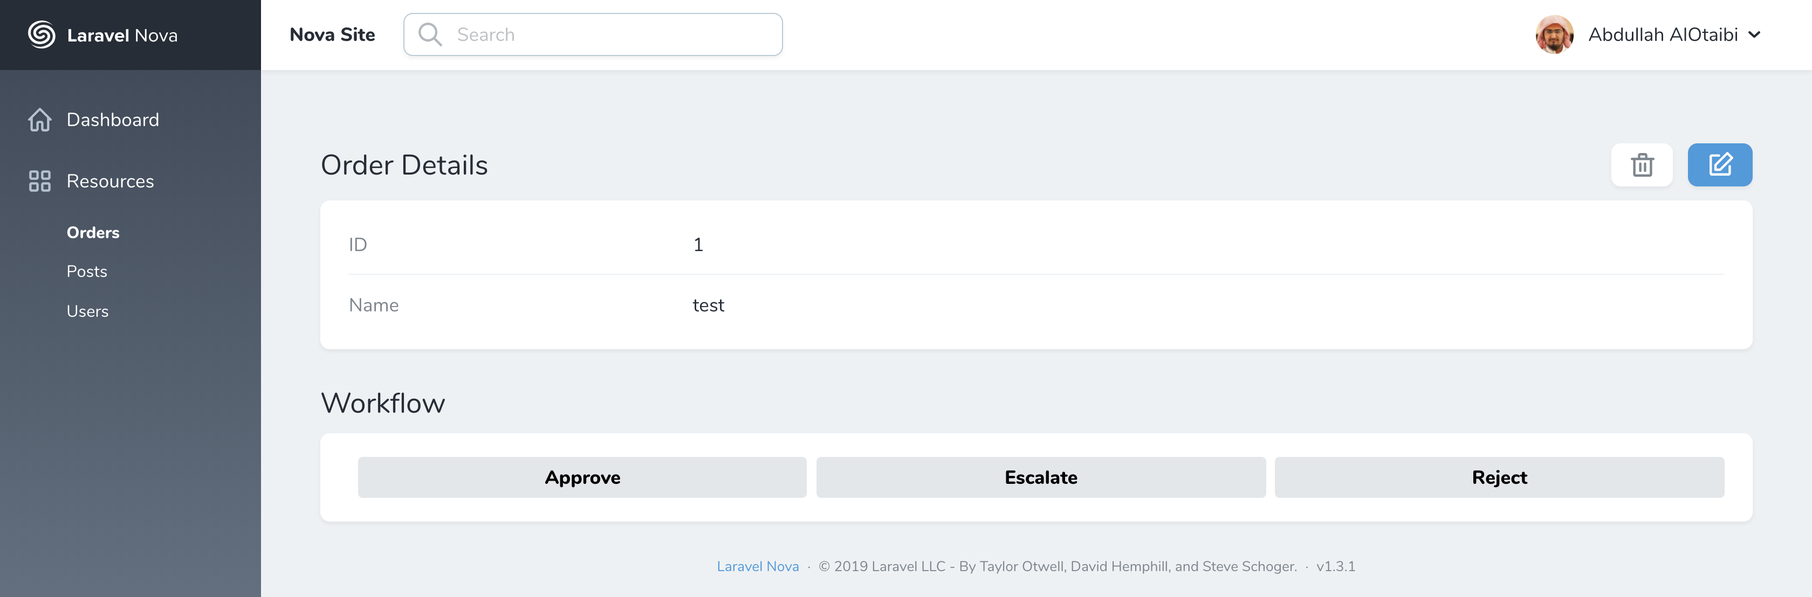
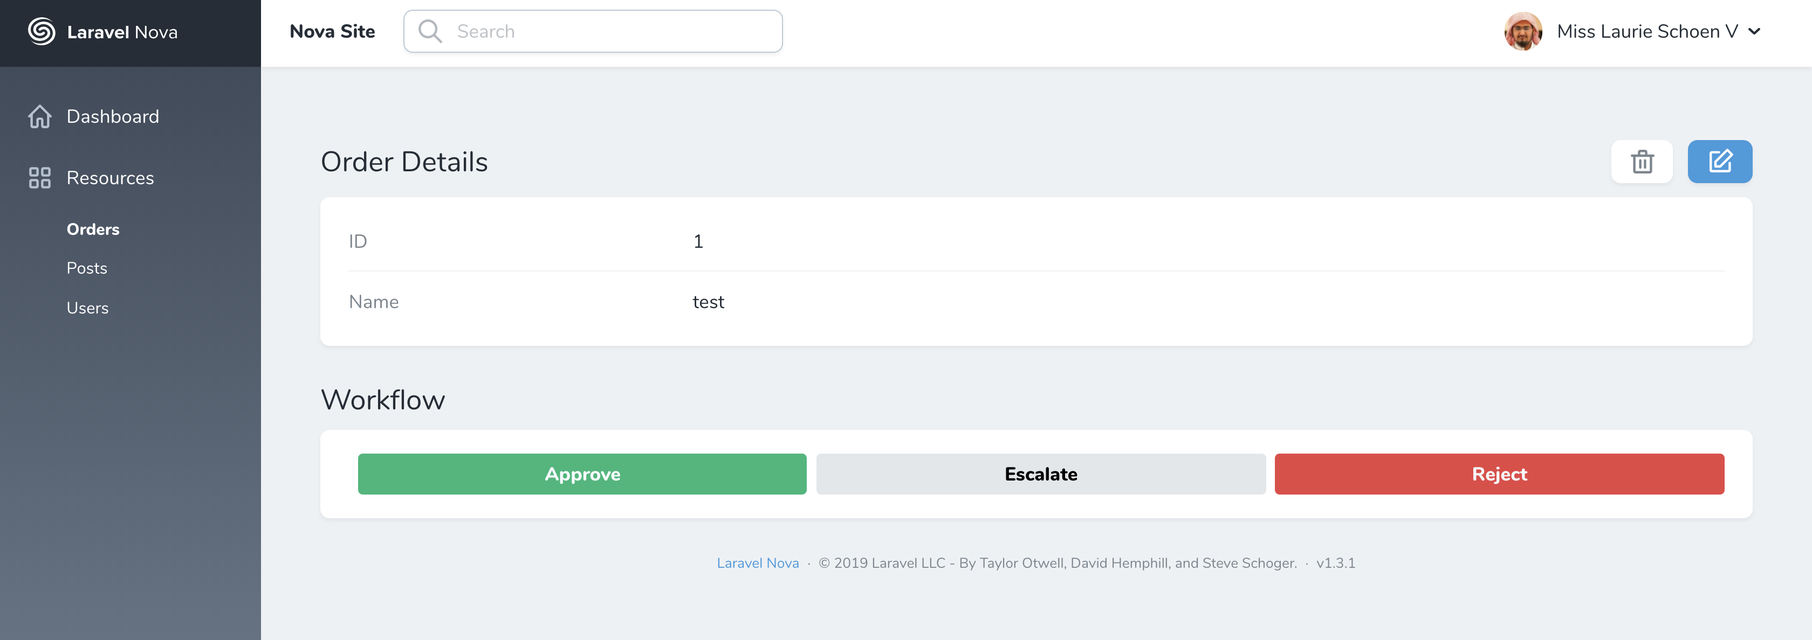
#1 support buttons coloring

diff --git a/dist/js/tool.js b/dist/js/tool.js
@@ -1,1 +1,1 @@
-!function(t){var e={};function r(n){if(e[n])return e[n].exports;var o=e[n]={i:n,l:!1,exports:{}};return t[n].call(o.exports,o,o.exports,r),o.l=!0,o.exports}r.m=t,r.c=e,r.d=function(t,e,n){r.o(t,e)||Object.defineProperty(t,e,{configurable:!1,enumerable:!0,get:n})},r.n=function(t){var e=t&&t.__esModule?function(){return t.default}:function(){return t};return r.d(e,"a",e),e},r.o=function(t,e){return Object.prototype.hasOwnProperty.call(t,e)},r.p="",r(r.s=0)}([function(t,e,r){r(1),t.exports=r(9)},function(t,e,r){Nova.booting(function(t,e){t.component("workflow",r(2))})},function(t,e,r){var n=r(3)(r(4),r(8),!1,null,null,null);t.exports=n.exports},function(t,e){t.exports=function(t,e,r,n,o,i){var a,s=t=t||{},c=typeof t.default;"object"!==c&&"function"!==c||(a=t,s=t.default);var u,l="function"==typeof s?s.options:s;if(e&&(l.render=e.render,l.staticRenderFns=e.staticRenderFns,l._compiled=!0),r&&(l.functional=!0),o&&(l._scopeId=o),i?(u=function(t){(t=t||this.$vnode&&this.$vnode.ssrContext||this.parent&&this.parent.$vnode&&this.parent.$vnode.ssrContext)||"undefined"==typeof __VUE_SSR_CONTEXT__||(t=__VUE_SSR_CONTEXT__),n&&n.call(this,t),t&&t._registeredComponents&&t._registeredComponents.add(i)},l._ssrRegister=u):n&&(u=n),u){var f=l.functional,h=f?l.render:l.beforeCreate;f?(l._injectStyles=u,l.render=function(t,e){return u.call(e),h(t,e)}):l.beforeCreate=h?[].concat(h,u):[u]}return{esModule:a,exports:s,options:l}}},function(t,e,r){"use strict";Object.defineProperty(e,"__esModule",{value:!0});var n=r(5),o=r.n(n);e.default={props:["resourceName","resourceId","field"],data:function(){return{transactions:this.field.transactions,reason:""}},methods:{close:function(t){this.transactions[t]=!1,this.$emit("close")},reasons:function(t){try{return this.field.reasons[t]||[]}catch(t){return[]}},action:function(){var t,e=(t=o.a.mark(function t(e){var r,n;return o.a.wrap(function(t){for(;;)switch(t.prev=t.next){case 0:return r=this,n=this.field.workflow+"/"+this.resourceId+"/"+e.replace(/\s/g,"_")+"/"+this.reason,t.next=3,Nova.request().get("/nova-vendor/workflow/"+n);case 3:r.close(e),r.$toasted.show("Resource successfully changed to "+e,{type:"success"}),r.$router.push({name:"index",params:{resourceName:r.resourceName,resourceId:r.resourceId}});case 6:case"end":return t.stop()}},t,this)}),function(){var e=t.apply(this,arguments);return new Promise(function(t,r){return function n(o,i){try{var a=e[o](i),s=a.value}catch(t){return void r(t)}if(!a.done)return Promise.resolve(s).then(function(t){n("next",t)},function(t){n("throw",t)});t(s)}("next")})});return function(t){return e.apply(this,arguments)}}(),reject:function(){console.log("reject")},openModal:function(t){Object.keys(this.reasons(t)).length>0?this.transactions[t]=!0:this.action(t)}}}},function(t,e,r){t.exports=r(6)},function(t,e,r){var n=function(){return this}()||Function("return this")(),o=n.regeneratorRuntime&&Object.getOwnPropertyNames(n).indexOf("regeneratorRuntime")>=0,i=o&&n.regeneratorRuntime;if(n.regeneratorRuntime=void 0,t.exports=r(7),o)n.regeneratorRuntime=i;else try{delete n.regeneratorRuntime}catch(t){n.regeneratorRuntime=void 0}},function(t,e){!function(e){"use strict";var r,n=Object.prototype,o=n.hasOwnProperty,i="function"==typeof Symbol?Symbol:{},a=i.iterator||"@@iterator",s=i.asyncIterator||"@@asyncIterator",c=i.toStringTag||"@@toStringTag",u="object"==typeof t,l=e.regeneratorRuntime;if(l)u&&(t.exports=l);else{(l=e.regeneratorRuntime=u?t.exports:{}).wrap=_;var f="suspendedStart",h="suspendedYield",p="executing",d="completed",v={},m={};m[a]=function(){return this};var y=Object.getPrototypeOf,g=y&&y(y(P([])));g&&g!==n&&o.call(g,a)&&(m=g);var w=E.prototype=b.prototype=Object.create(m);L.prototype=w.constructor=E,E.constructor=L,E[c]=L.displayName="GeneratorFunction",l.isGeneratorFunction=function(t){var e="function"==typeof t&&t.constructor;return!!e&&(e===L||"GeneratorFunction"===(e.displayName||e.name))},l.mark=function(t){return Object.setPrototypeOf?Object.setPrototypeOf(t,E):(t.__proto__=E,c in t||(t[c]="GeneratorFunction")),t.prototype=Object.create(w),t},l.awrap=function(t){return{__await:t}},C(O.prototype),O.prototype[s]=function(){return this},l.AsyncIterator=O,l.async=function(t,e,r,n){var o=new O(_(t,e,r,n));return l.isGeneratorFunction(e)?o:o.next().then(function(t){return t.done?t.value:o.next()})},C(w),w[c]="Generator",w[a]=function(){return this},w.toString=function(){return"[object Generator]"},l.keys=function(t){var e=[];for(var r in t)e.push(r);return e.reverse(),function r(){for(;e.length;){var n=e.pop();if(n in t)return r.value=n,r.done=!1,r}return r.done=!0,r}},l.values=P,R.prototype={constructor:R,reset:function(t){if(this.prev=0,this.next=0,this.sent=this._sent=r,this.done=!1,this.delegate=null,this.method="next",this.arg=r,this.tryEntries.forEach(N),!t)for(var e in this)"t"===e.charAt(0)&&o.call(this,e)&&!isNaN(+e.slice(1))&&(this[e]=r)},stop:function(){this.done=!0;var t=this.tryEntries[0].completion;if("throw"===t.type)throw t.arg;return this.rval},dispatchException:function(t){if(this.done)throw t;var e=this;function n(n,o){return s.type="throw",s.arg=t,e.next=n,o&&(e.method="next",e.arg=r),!!o}for(var i=this.tryEntries.length-1;i>=0;--i){var a=this.tryEntries[i],s=a.completion;if("root"===a.tryLoc)return n("end");if(a.tryLoc<=this.prev){var c=o.call(a,"catchLoc"),u=o.call(a,"finallyLoc");if(c&&u){if(this.prev<a.catchLoc)return n(a.catchLoc,!0);if(this.prev<a.finallyLoc)return n(a.finallyLoc)}else if(c){if(this.prev<a.catchLoc)return n(a.catchLoc,!0)}else{if(!u)throw new Error("try statement without catch or finally");if(this.prev<a.finallyLoc)return n(a.finallyLoc)}}}},abrupt:function(t,e){for(var r=this.tryEntries.length-1;r>=0;--r){var n=this.tryEntries[r];if(n.tryLoc<=this.prev&&o.call(n,"finallyLoc")&&this.prev<n.finallyLoc){var i=n;break}}i&&("break"===t||"continue"===t)&&i.tryLoc<=e&&e<=i.finallyLoc&&(i=null);var a=i?i.completion:{};return a.type=t,a.arg=e,i?(this.method="next",this.next=i.finallyLoc,v):this.complete(a)},complete:function(t,e){if("throw"===t.type)throw t.arg;return"break"===t.type||"continue"===t.type?this.next=t.arg:"return"===t.type?(this.rval=this.arg=t.arg,this.method="return",this.next="end"):"normal"===t.type&&e&&(this.next=e),v},finish:function(t){for(var e=this.tryEntries.length-1;e>=0;--e){var r=this.tryEntries[e];if(r.finallyLoc===t)return this.complete(r.completion,r.afterLoc),N(r),v}},catch:function(t){for(var e=this.tryEntries.length-1;e>=0;--e){var r=this.tryEntries[e];if(r.tryLoc===t){var n=r.completion;if("throw"===n.type){var o=n.arg;N(r)}return o}}throw new Error("illegal catch attempt")},delegateYield:function(t,e,n){return this.delegate={iterator:P(t),resultName:e,nextLoc:n},"next"===this.method&&(this.arg=r),v}}}function _(t,e,r,n){var o=e&&e.prototype instanceof b?e:b,i=Object.create(o.prototype),a=new R(n||[]);return i._invoke=function(t,e,r){var n=f;return function(o,i){if(n===p)throw new Error("Generator is already running");if(n===d){if("throw"===o)throw i;return S()}for(r.method=o,r.arg=i;;){var a=r.delegate;if(a){var s=j(a,r);if(s){if(s===v)continue;return s}}if("next"===r.method)r.sent=r._sent=r.arg;else if("throw"===r.method){if(n===f)throw n=d,r.arg;r.dispatchException(r.arg)}else"return"===r.method&&r.abrupt("return",r.arg);n=p;var c=x(t,e,r);if("normal"===c.type){if(n=r.done?d:h,c.arg===v)continue;return{value:c.arg,done:r.done}}"throw"===c.type&&(n=d,r.method="throw",r.arg=c.arg)}}}(t,r,a),i}function x(t,e,r){try{return{type:"normal",arg:t.call(e,r)}}catch(t){return{type:"throw",arg:t}}}function b(){}function L(){}function E(){}function C(t){["next","throw","return"].forEach(function(e){t[e]=function(t){return this._invoke(e,t)}})}function O(t){var e;this._invoke=function(r,n){function i(){return new Promise(function(e,i){!function e(r,n,i,a){var s=x(t[r],t,n);if("throw"!==s.type){var c=s.arg,u=c.value;return u&&"object"==typeof u&&o.call(u,"__await")?Promise.resolve(u.__await).then(function(t){e("next",t,i,a)},function(t){e("throw",t,i,a)}):Promise.resolve(u).then(function(t){c.value=t,i(c)},a)}a(s.arg)}(r,n,e,i)})}return e=e?e.then(i,i):i()}}function j(t,e){var n=t.iterator[e.method];if(n===r){if(e.delegate=null,"throw"===e.method){if(t.iterator.return&&(e.method="return",e.arg=r,j(t,e),"throw"===e.method))return v;e.method="throw",e.arg=new TypeError("The iterator does not provide a 'throw' method")}return v}var o=x(n,t.iterator,e.arg);if("throw"===o.type)return e.method="throw",e.arg=o.arg,e.delegate=null,v;var i=o.arg;return i?i.done?(e[t.resultName]=i.value,e.next=t.nextLoc,"return"!==e.method&&(e.method="next",e.arg=r),e.delegate=null,v):i:(e.method="throw",e.arg=new TypeError("iterator result is not an object"),e.delegate=null,v)}function k(t){var e={tryLoc:t[0]};1 in t&&(e.catchLoc=t[1]),2 in t&&(e.finallyLoc=t[2],e.afterLoc=t[3]),this.tryEntries.push(e)}function N(t){var e=t.completion||{};e.type="normal",delete e.arg,t.completion=e}function R(t){this.tryEntries=[{tryLoc:"root"}],t.forEach(k,this),this.reset(!0)}function P(t){if(t){var e=t[a];if(e)return e.call(t);if("function"==typeof t.next)return t;if(!isNaN(t.length)){var n=-1,i=function e(){for(;++n<t.length;)if(o.call(t,n))return e.value=t[n],e.done=!1,e;return e.value=r,e.done=!0,e};return i.next=i}}return{next:S}}function S(){return{value:r,done:!0}}}(function(){return this}()||Function("return this")())},function(t,e){t.exports={render:function(){var t=this,e=t.$createElement,r=t._self._c||e;return Object.keys(t.transactions).length>0?r("div",{staticClass:"flex"},t._l(t.transactions,function(e,n){return r("div",{staticClass:"flex-1 m-1"},[r("button",{staticClass:"bg-50 w-full btn m-1 p-2 rounded",on:{click:function(e){e.preventDefault(),t.openModal(n)}}},[t._v(t._s(n))]),t._v(" "),e?r("modal",{on:{"modal-close":function(e){t.close(n)}}},[r("form",{staticClass:"bg-white rounded-lg shadow-lg overflow-hidden",staticStyle:{width:"460px"}},[t._t("default",[r("div",{staticClass:"p-8"},[r("heading",{staticClass:"mb-6",attrs:{level:2}},[t._v(t._s(t.__("Choose one of the reasons")))]),t._v(" "),r("p",{staticClass:"text-80 leading-normal"},["textarea"!=t.reasons(n)?r("select",{directives:[{name:"model",rawName:"v-model",value:t.reason,expression:"reason"}],staticClass:"form-control form-select w-full",on:{change:function(e){var r=Array.prototype.filter.call(e.target.options,function(t){return t.selected}).map(function(t){return"_value"in t?t._value:t.value});t.reason=e.target.multiple?r:r[0]}}},t._l(t.reasons(n),function(e,n){return r("option",{domProps:{value:n}},[t._v(t._s(e))])}),0):r("textarea",{directives:[{name:"model",rawName:"v-model",value:t.reason,expression:"reason"}],staticClass:"form-control form-input-bordered h-auto w-full",domProps:{value:t.reason},on:{input:function(e){e.target.composing||(t.reason=e.target.value)}}})])],1)]),t._v(" "),r("div",{staticClass:"bg-30 px-6 py-3 flex"},[r("div",{staticClass:"ml-auto"},[r("button",{staticClass:"btn text-80 font-normal h-9 px-3 mr-3 btn-link",attrs:{type:"button","data-testid":"cancel-button",dusk:"cancel-delete-button"},on:{click:function(e){e.preventDefault(),t.close(n)}}},[t._v("\n              "+t._s(t.__("Cancel"))+"\n            ")]),t._v(" "),r("button",{ref:"confirmButton",refInFor:!0,staticClass:"btn btn-default btn-primary",attrs:{id:"confirm-delete-button","data-testid":"confirm-button",type:"submit"},on:{click:function(e){t.action(n)}}},[t._v("\n              OK\n            ")])])])],2)]):t._e()],1)}),0):r("div",[t._v("\n  No action required\n")])},staticRenderFns:[]}},function(t,e){}]);
+!function(t){var e={};function r(n){if(e[n])return e[n].exports;var o=e[n]={i:n,l:!1,exports:{}};return t[n].call(o.exports,o,o.exports,r),o.l=!0,o.exports}r.m=t,r.c=e,r.d=function(t,e,n){r.o(t,e)||Object.defineProperty(t,e,{configurable:!1,enumerable:!0,get:n})},r.n=function(t){var e=t&&t.__esModule?function(){return t.default}:function(){return t};return r.d(e,"a",e),e},r.o=function(t,e){return Object.prototype.hasOwnProperty.call(t,e)},r.p="",r(r.s=0)}([function(t,e,r){r(1),t.exports=r(9)},function(t,e,r){Nova.booting(function(t,e){t.component("workflow",r(2))})},function(t,e,r){var n=r(3)(r(4),r(8),!1,null,null,null);t.exports=n.exports},function(t,e){t.exports=function(t,e,r,n,o,i){var a,s=t=t||{},c=typeof t.default;"object"!==c&&"function"!==c||(a=t,s=t.default);var u,l="function"==typeof s?s.options:s;if(e&&(l.render=e.render,l.staticRenderFns=e.staticRenderFns,l._compiled=!0),r&&(l.functional=!0),o&&(l._scopeId=o),i?(u=function(t){(t=t||this.$vnode&&this.$vnode.ssrContext||this.parent&&this.parent.$vnode&&this.parent.$vnode.ssrContext)||"undefined"==typeof __VUE_SSR_CONTEXT__||(t=__VUE_SSR_CONTEXT__),n&&n.call(this,t),t&&t._registeredComponents&&t._registeredComponents.add(i)},l._ssrRegister=u):n&&(u=n),u){var f=l.functional,h=f?l.render:l.beforeCreate;f?(l._injectStyles=u,l.render=function(t,e){return u.call(e),h(t,e)}):l.beforeCreate=h?[].concat(h,u):[u]}return{esModule:a,exports:s,options:l}}},function(t,e,r){"use strict";Object.defineProperty(e,"__esModule",{value:!0});var n=r(5),o=r.n(n);e.default={props:["resourceName","resourceId","field"],data:function(){return{transactions:this.field.transactions,reason:""}},methods:{close:function(t){this.transactions[t]=!1,this.$emit("close")},classes:function(t){return this.field.styles[t]},reasons:function(t){try{return this.field.reasons[t]||[]}catch(t){return[]}},action:function(){var t,e=(t=o.a.mark(function t(e){var r,n;return o.a.wrap(function(t){for(;;)switch(t.prev=t.next){case 0:return r=this,n=this.field.workflow+"/"+this.resourceId+"/"+e.replace(/\s/g,"_")+"/"+this.reason,t.next=3,Nova.request().get("/nova-vendor/workflow/"+n);case 3:r.close(e),r.$toasted.show("Resource successfully changed to "+e,{type:"success"}),r.$router.push({name:"index",params:{resourceName:r.resourceName,resourceId:r.resourceId}});case 6:case"end":return t.stop()}},t,this)}),function(){var e=t.apply(this,arguments);return new Promise(function(t,r){return function n(o,i){try{var a=e[o](i),s=a.value}catch(t){return void r(t)}if(!a.done)return Promise.resolve(s).then(function(t){n("next",t)},function(t){n("throw",t)});t(s)}("next")})});return function(t){return e.apply(this,arguments)}}(),reject:function(){console.log("reject")},openModal:function(t){Object.keys(this.reasons(t)).length>0?this.transactions[t]=!0:this.action(t)}}}},function(t,e,r){t.exports=r(6)},function(t,e,r){var n=function(){return this}()||Function("return this")(),o=n.regeneratorRuntime&&Object.getOwnPropertyNames(n).indexOf("regeneratorRuntime")>=0,i=o&&n.regeneratorRuntime;if(n.regeneratorRuntime=void 0,t.exports=r(7),o)n.regeneratorRuntime=i;else try{delete n.regeneratorRuntime}catch(t){n.regeneratorRuntime=void 0}},function(t,e){!function(e){"use strict";var r,n=Object.prototype,o=n.hasOwnProperty,i="function"==typeof Symbol?Symbol:{},a=i.iterator||"@@iterator",s=i.asyncIterator||"@@asyncIterator",c=i.toStringTag||"@@toStringTag",u="object"==typeof t,l=e.regeneratorRuntime;if(l)u&&(t.exports=l);else{(l=e.regeneratorRuntime=u?t.exports:{}).wrap=_;var f="suspendedStart",h="suspendedYield",p="executing",d="completed",v={},m={};m[a]=function(){return this};var y=Object.getPrototypeOf,g=y&&y(y(P([])));g&&g!==n&&o.call(g,a)&&(m=g);var w=E.prototype=b.prototype=Object.create(m);L.prototype=w.constructor=E,E.constructor=L,E[c]=L.displayName="GeneratorFunction",l.isGeneratorFunction=function(t){var e="function"==typeof t&&t.constructor;return!!e&&(e===L||"GeneratorFunction"===(e.displayName||e.name))},l.mark=function(t){return Object.setPrototypeOf?Object.setPrototypeOf(t,E):(t.__proto__=E,c in t||(t[c]="GeneratorFunction")),t.prototype=Object.create(w),t},l.awrap=function(t){return{__await:t}},C(O.prototype),O.prototype[s]=function(){return this},l.AsyncIterator=O,l.async=function(t,e,r,n){var o=new O(_(t,e,r,n));return l.isGeneratorFunction(e)?o:o.next().then(function(t){return t.done?t.value:o.next()})},C(w),w[c]="Generator",w[a]=function(){return this},w.toString=function(){return"[object Generator]"},l.keys=function(t){var e=[];for(var r in t)e.push(r);return e.reverse(),function r(){for(;e.length;){var n=e.pop();if(n in t)return r.value=n,r.done=!1,r}return r.done=!0,r}},l.values=P,R.prototype={constructor:R,reset:function(t){if(this.prev=0,this.next=0,this.sent=this._sent=r,this.done=!1,this.delegate=null,this.method="next",this.arg=r,this.tryEntries.forEach(N),!t)for(var e in this)"t"===e.charAt(0)&&o.call(this,e)&&!isNaN(+e.slice(1))&&(this[e]=r)},stop:function(){this.done=!0;var t=this.tryEntries[0].completion;if("throw"===t.type)throw t.arg;return this.rval},dispatchException:function(t){if(this.done)throw t;var e=this;function n(n,o){return s.type="throw",s.arg=t,e.next=n,o&&(e.method="next",e.arg=r),!!o}for(var i=this.tryEntries.length-1;i>=0;--i){var a=this.tryEntries[i],s=a.completion;if("root"===a.tryLoc)return n("end");if(a.tryLoc<=this.prev){var c=o.call(a,"catchLoc"),u=o.call(a,"finallyLoc");if(c&&u){if(this.prev<a.catchLoc)return n(a.catchLoc,!0);if(this.prev<a.finallyLoc)return n(a.finallyLoc)}else if(c){if(this.prev<a.catchLoc)return n(a.catchLoc,!0)}else{if(!u)throw new Error("try statement without catch or finally");if(this.prev<a.finallyLoc)return n(a.finallyLoc)}}}},abrupt:function(t,e){for(var r=this.tryEntries.length-1;r>=0;--r){var n=this.tryEntries[r];if(n.tryLoc<=this.prev&&o.call(n,"finallyLoc")&&this.prev<n.finallyLoc){var i=n;break}}i&&("break"===t||"continue"===t)&&i.tryLoc<=e&&e<=i.finallyLoc&&(i=null);var a=i?i.completion:{};return a.type=t,a.arg=e,i?(this.method="next",this.next=i.finallyLoc,v):this.complete(a)},complete:function(t,e){if("throw"===t.type)throw t.arg;return"break"===t.type||"continue"===t.type?this.next=t.arg:"return"===t.type?(this.rval=this.arg=t.arg,this.method="return",this.next="end"):"normal"===t.type&&e&&(this.next=e),v},finish:function(t){for(var e=this.tryEntries.length-1;e>=0;--e){var r=this.tryEntries[e];if(r.finallyLoc===t)return this.complete(r.completion,r.afterLoc),N(r),v}},catch:function(t){for(var e=this.tryEntries.length-1;e>=0;--e){var r=this.tryEntries[e];if(r.tryLoc===t){var n=r.completion;if("throw"===n.type){var o=n.arg;N(r)}return o}}throw new Error("illegal catch attempt")},delegateYield:function(t,e,n){return this.delegate={iterator:P(t),resultName:e,nextLoc:n},"next"===this.method&&(this.arg=r),v}}}function _(t,e,r,n){var o=e&&e.prototype instanceof b?e:b,i=Object.create(o.prototype),a=new R(n||[]);return i._invoke=function(t,e,r){var n=f;return function(o,i){if(n===p)throw new Error("Generator is already running");if(n===d){if("throw"===o)throw i;return S()}for(r.method=o,r.arg=i;;){var a=r.delegate;if(a){var s=j(a,r);if(s){if(s===v)continue;return s}}if("next"===r.method)r.sent=r._sent=r.arg;else if("throw"===r.method){if(n===f)throw n=d,r.arg;r.dispatchException(r.arg)}else"return"===r.method&&r.abrupt("return",r.arg);n=p;var c=x(t,e,r);if("normal"===c.type){if(n=r.done?d:h,c.arg===v)continue;return{value:c.arg,done:r.done}}"throw"===c.type&&(n=d,r.method="throw",r.arg=c.arg)}}}(t,r,a),i}function x(t,e,r){try{return{type:"normal",arg:t.call(e,r)}}catch(t){return{type:"throw",arg:t}}}function b(){}function L(){}function E(){}function C(t){["next","throw","return"].forEach(function(e){t[e]=function(t){return this._invoke(e,t)}})}function O(t){var e;this._invoke=function(r,n){function i(){return new Promise(function(e,i){!function e(r,n,i,a){var s=x(t[r],t,n);if("throw"!==s.type){var c=s.arg,u=c.value;return u&&"object"==typeof u&&o.call(u,"__await")?Promise.resolve(u.__await).then(function(t){e("next",t,i,a)},function(t){e("throw",t,i,a)}):Promise.resolve(u).then(function(t){c.value=t,i(c)},a)}a(s.arg)}(r,n,e,i)})}return e=e?e.then(i,i):i()}}function j(t,e){var n=t.iterator[e.method];if(n===r){if(e.delegate=null,"throw"===e.method){if(t.iterator.return&&(e.method="return",e.arg=r,j(t,e),"throw"===e.method))return v;e.method="throw",e.arg=new TypeError("The iterator does not provide a 'throw' method")}return v}var o=x(n,t.iterator,e.arg);if("throw"===o.type)return e.method="throw",e.arg=o.arg,e.delegate=null,v;var i=o.arg;return i?i.done?(e[t.resultName]=i.value,e.next=t.nextLoc,"return"!==e.method&&(e.method="next",e.arg=r),e.delegate=null,v):i:(e.method="throw",e.arg=new TypeError("iterator result is not an object"),e.delegate=null,v)}function k(t){var e={tryLoc:t[0]};1 in t&&(e.catchLoc=t[1]),2 in t&&(e.finallyLoc=t[2],e.afterLoc=t[3]),this.tryEntries.push(e)}function N(t){var e=t.completion||{};e.type="normal",delete e.arg,t.completion=e}function R(t){this.tryEntries=[{tryLoc:"root"}],t.forEach(k,this),this.reset(!0)}function P(t){if(t){var e=t[a];if(e)return e.call(t);if("function"==typeof t.next)return t;if(!isNaN(t.length)){var n=-1,i=function e(){for(;++n<t.length;)if(o.call(t,n))return e.value=t[n],e.done=!1,e;return e.value=r,e.done=!0,e};return i.next=i}}return{next:S}}function S(){return{value:r,done:!0}}}(function(){return this}()||Function("return this")())},function(t,e){t.exports={render:function(){var t=this,e=t.$createElement,r=t._self._c||e;return Object.keys(t.transactions).length>0?r("div",{staticClass:"flex"},t._l(t.transactions,function(e,n){return r("div",{staticClass:"flex-1 m-1"},[r("button",{staticClass:"bg-50 w-full btn m-1 p-2 rounded",class:t.classes(n),on:{click:function(e){e.preventDefault(),t.openModal(n)}}},[t._v(t._s(n))]),t._v(" "),e?r("modal",{on:{"modal-close":function(e){t.close(n)}}},[r("form",{staticClass:"bg-white rounded-lg shadow-lg overflow-hidden",staticStyle:{width:"460px"}},[t._t("default",[r("div",{staticClass:"p-8"},[r("heading",{staticClass:"mb-6",attrs:{level:2}},[t._v(t._s(t.__("Choose one of the reasons")))]),t._v(" "),r("p",{staticClass:"text-80 leading-normal"},["textarea"!=t.reasons(n)?r("select",{directives:[{name:"model",rawName:"v-model",value:t.reason,expression:"reason"}],staticClass:"form-control form-select w-full",on:{change:function(e){var r=Array.prototype.filter.call(e.target.options,function(t){return t.selected}).map(function(t){return"_value"in t?t._value:t.value});t.reason=e.target.multiple?r:r[0]}}},t._l(t.reasons(n),function(e,n){return r("option",{domProps:{value:n}},[t._v(t._s(e))])}),0):r("textarea",{directives:[{name:"model",rawName:"v-model",value:t.reason,expression:"reason"}],staticClass:"form-control form-input-bordered h-auto w-full",domProps:{value:t.reason},on:{input:function(e){e.target.composing||(t.reason=e.target.value)}}})])],1)]),t._v(" "),r("div",{staticClass:"bg-30 px-6 py-3 flex"},[r("div",{staticClass:"ml-auto"},[r("button",{staticClass:"btn text-80 font-normal h-9 px-3 mr-3 btn-link",attrs:{type:"button","data-testid":"cancel-button",dusk:"cancel-delete-button"},on:{click:function(e){e.preventDefault(),t.close(n)}}},[t._v("\n              "+t._s(t.__("Cancel"))+"\n            ")]),t._v(" "),r("button",{ref:"confirmButton",refInFor:!0,staticClass:"btn btn-default btn-primary",attrs:{id:"confirm-delete-button","data-testid":"confirm-button",type:"submit"},on:{click:function(e){t.action(n)}}},[t._v("\n              OK\n            ")])])])],2)]):t._e()],1)}),0):r("div",[t._v("\n  No action required\n")])},staticRenderFns:[]}},function(t,e){}]);

diff --git a/resources/js/components/Tool.vue b/resources/js/components/Tool.vue
@@ -1,7 +1,7 @@
 <template>
   <div class="flex" v-if="Object.keys(transactions).length > 0">
     <div class="flex-1 m-1" v-for="(showModal, transaction) in transactions">
-      <button class="bg-50 w-full btn m-1 p-2 rounded" @click.prevent="openModal(transaction)">{{transaction}}</button>
+      <button class="bg-50 w-full btn m-1 p-2 rounded" :class="classes(transaction)" @click.prevent="openModal(transaction)">{{transaction}}</button>
       <modal v-if="showModal" @modal-close="close(transaction)">
         <form
             class="bg-white rounded-lg shadow-lg overflow-hidden"
@@ -68,6 +68,10 @@
         this.transactions[transaction] = false;
 
         this.$emit('close')
+      },
+
+      classes(transaction) {
+        return this.field.styles[transaction];
       },
 
       reasons(transaction) {

diff --git a/src/Workflow.php b/src/Workflow.php
@@ -32,14 +32,10 @@ class Workflow extends ResourceTool
 
             $this->fetch_reasons($workflow, $array);
 
-            $transactions = [];
-            foreach ($array as $trans) {
-                $transactions[$trans] = false;
-            }
-
             $this->withMeta([
                 'workflow'     => $workflow_name,
-                'transactions' => $transactions,
+                'transactions' => $this->get_transitions($array),
+                'styles' => $this->get_styles($workflow),
             ]);
 
 
@@ -71,7 +67,7 @@ class Workflow extends ResourceTool
      * @param array $workflow
      * @param array $array
      */
-    protected function fetch_reasons($workflow, array $array)
+    protected function fetchReasons($workflow, array $array)
     {
         collect($workflow['transitions'])->filter(function ($trans, $trans_label) use ($array) {
             return in_array($trans_label, $array) && array_key_exists('with_reasons', $trans);
@@ -104,5 +100,24 @@ class Workflow extends ResourceTool
         $this->withMeta([
             "reasons" => collect(data_get($this, 'element.meta.reasons', []))->merge($reasons),
         ]);
+    }
+
+    private function get_transitions(array $array)
+    {
+        $transactions = [];
+        foreach ($array as $trans) {
+            $transactions[$trans] = false;
+        }
+
+        return $transactions;
+    }
+
+    private function get_styles(Collection $workflow)
+    {
+        return collect($workflow->get('transitions'))->reject(function ($trans) {
+            return !isset($trans['style_classes']);
+        })->map(function ($trans) {
+            return $trans['style_classes'];
+        })->toArray();
     }
 }

diff --git a/config/workflow.php b/config/workflow.php
@@ -19,6 +19,7 @@ return [
                     'from'  => ['pending', 'escalated'],
                     'to'    => 'approved',
                     'event' => \App\Events\RequestApproved::class, // fire event
+                    'style_classes' => 'bg-success text-20'
                 ],
                 'Escalate' => [
                     'from'         => ['pending'],
@@ -34,6 +35,7 @@ return [
                             'label' => 'title', // option label
                         ],
                     ],
+                    'style_classes' => 'bg-danger text-20'
                 ],
 
                 'Back to My Employee' => [

diff --git a/README.md b/README.md
@@ -37,6 +37,7 @@ you can define inside `workflows` element workflow name and it's config as follo
 | from           | Yes        | array: From states                                                                                                     | 
 | to             | Yes        | To state                                                                                                               | 
 | event          | No         | Event class that will be fired after the transition is completed                                                       | 
+| style_classes  | No         | apply your css classes                                                                                                 | 
 | with_reasons   | No         | string: column inside your model will be filled with the transition                                                    | 
 | with_reasons   | No         | array:  will generate a dropdown list from with_reasons.model with `id` as option's value and `label` as option's text | 
 
